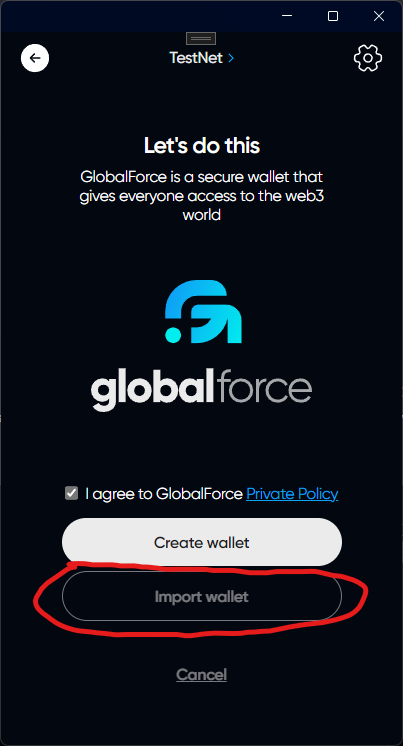
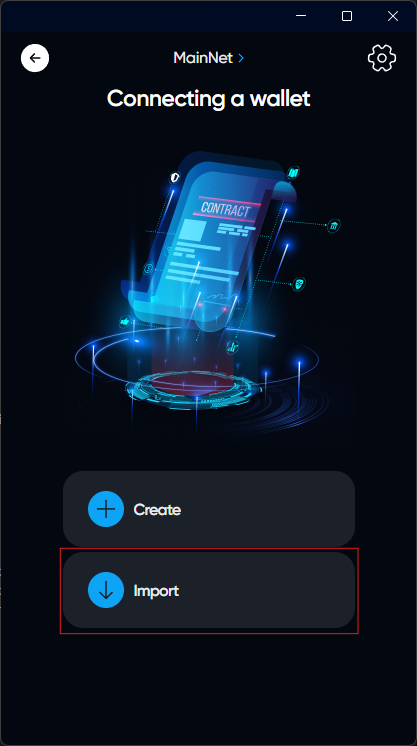
New doc

diff --git a/docs/en/wallet-wiki/account/resources.md b/docs/en/wallet-wiki/account/resources.md
@@ -1,0 +1,21 @@
+# Resources
+
+{% note alert %}
+
+The transactions that you make using your wallet require resources such as processor time and RAM. In order to execute transactions, you need to monitor the level of available resources and renew them for GFL tokens.
+
+{% endnote %}
+
+## Click on the widget of resources on the main screen
+
+![alt text](image-22.png)
+
+## Click on Buy Resources
+
+![alt text](image-23.png)
+
+## Enter the number of RAM and CPU resources desired for buying
+
+![alt text](image-24.png)
+
+## Buy resources

diff --git a/docs/en/wallet-wiki/account/kyc.md b/docs/en/wallet-wiki/account/kyc.md
@@ -1,0 +1,21 @@
+# KYC
+
+{% note alert %}
+
+To pass KYC, you need to have an account in the application
+
+{% endnote %}
+
+## Open the settings
+
+![alt text](image-16.png)
+
+## Click on Verification Level
+
+![alt text](image-20.png)
+
+## Select Level and click Increase to Level
+
+![alt text](image-21.png)
+
+## Follow the instructions of the provider KYC

diff --git a/docs/en/wallet-wiki/account/by-seed-phrase.md b/docs/en/wallet-wiki/account/by-seed-phrase.md
@@ -6,11 +6,11 @@ Click on your account name on the main page. You will see the OnePass menu for a
 ![alt text](image.png)![alt text](image-1.png)
 
 ## Here is the authorization page
-### Click on "Import wallet"
+### Click on "Import"
 
 ![alt text](image-2.png)
 
-### Select "Recovery Wallet"
+### Select "By seed phrase"
 
 ![alt text](image-9.png)
 

diff --git a/docs/en/wallet-wiki/account/by-private-key.md b/docs/en/wallet-wiki/account/by-private-key.md
@@ -6,11 +6,11 @@ Click on your account name on the main page. You will see the OnePass menu for a
 ![alt text](image.png)![alt text](image-1.png)
 
 ## Here is the authorization page
-### Click on "Import wallet"
+### Click on "Import"
 
 ![alt text](image-2.png)
 
-### Select "Import Wallet"
+### Select "By private key"
 
 ![alt text](image-3.png)
 

diff --git a/docs/en/wallet-wiki/account/CreatingNewAccount.md b/docs/en/wallet-wiki/account/CreatingNewAccount.md
@@ -8,9 +8,13 @@ Click on your account name on the main page. You will see the OnePass menu for a
 
 ## Here is the authorization page
 
-Click on "Create wallet"
+Click on "Create"
 
 ![alt text](image-11.png)
+
+Select "Create new"
+
+![alt text](image-19.png)
 
 ### Creating username
 
